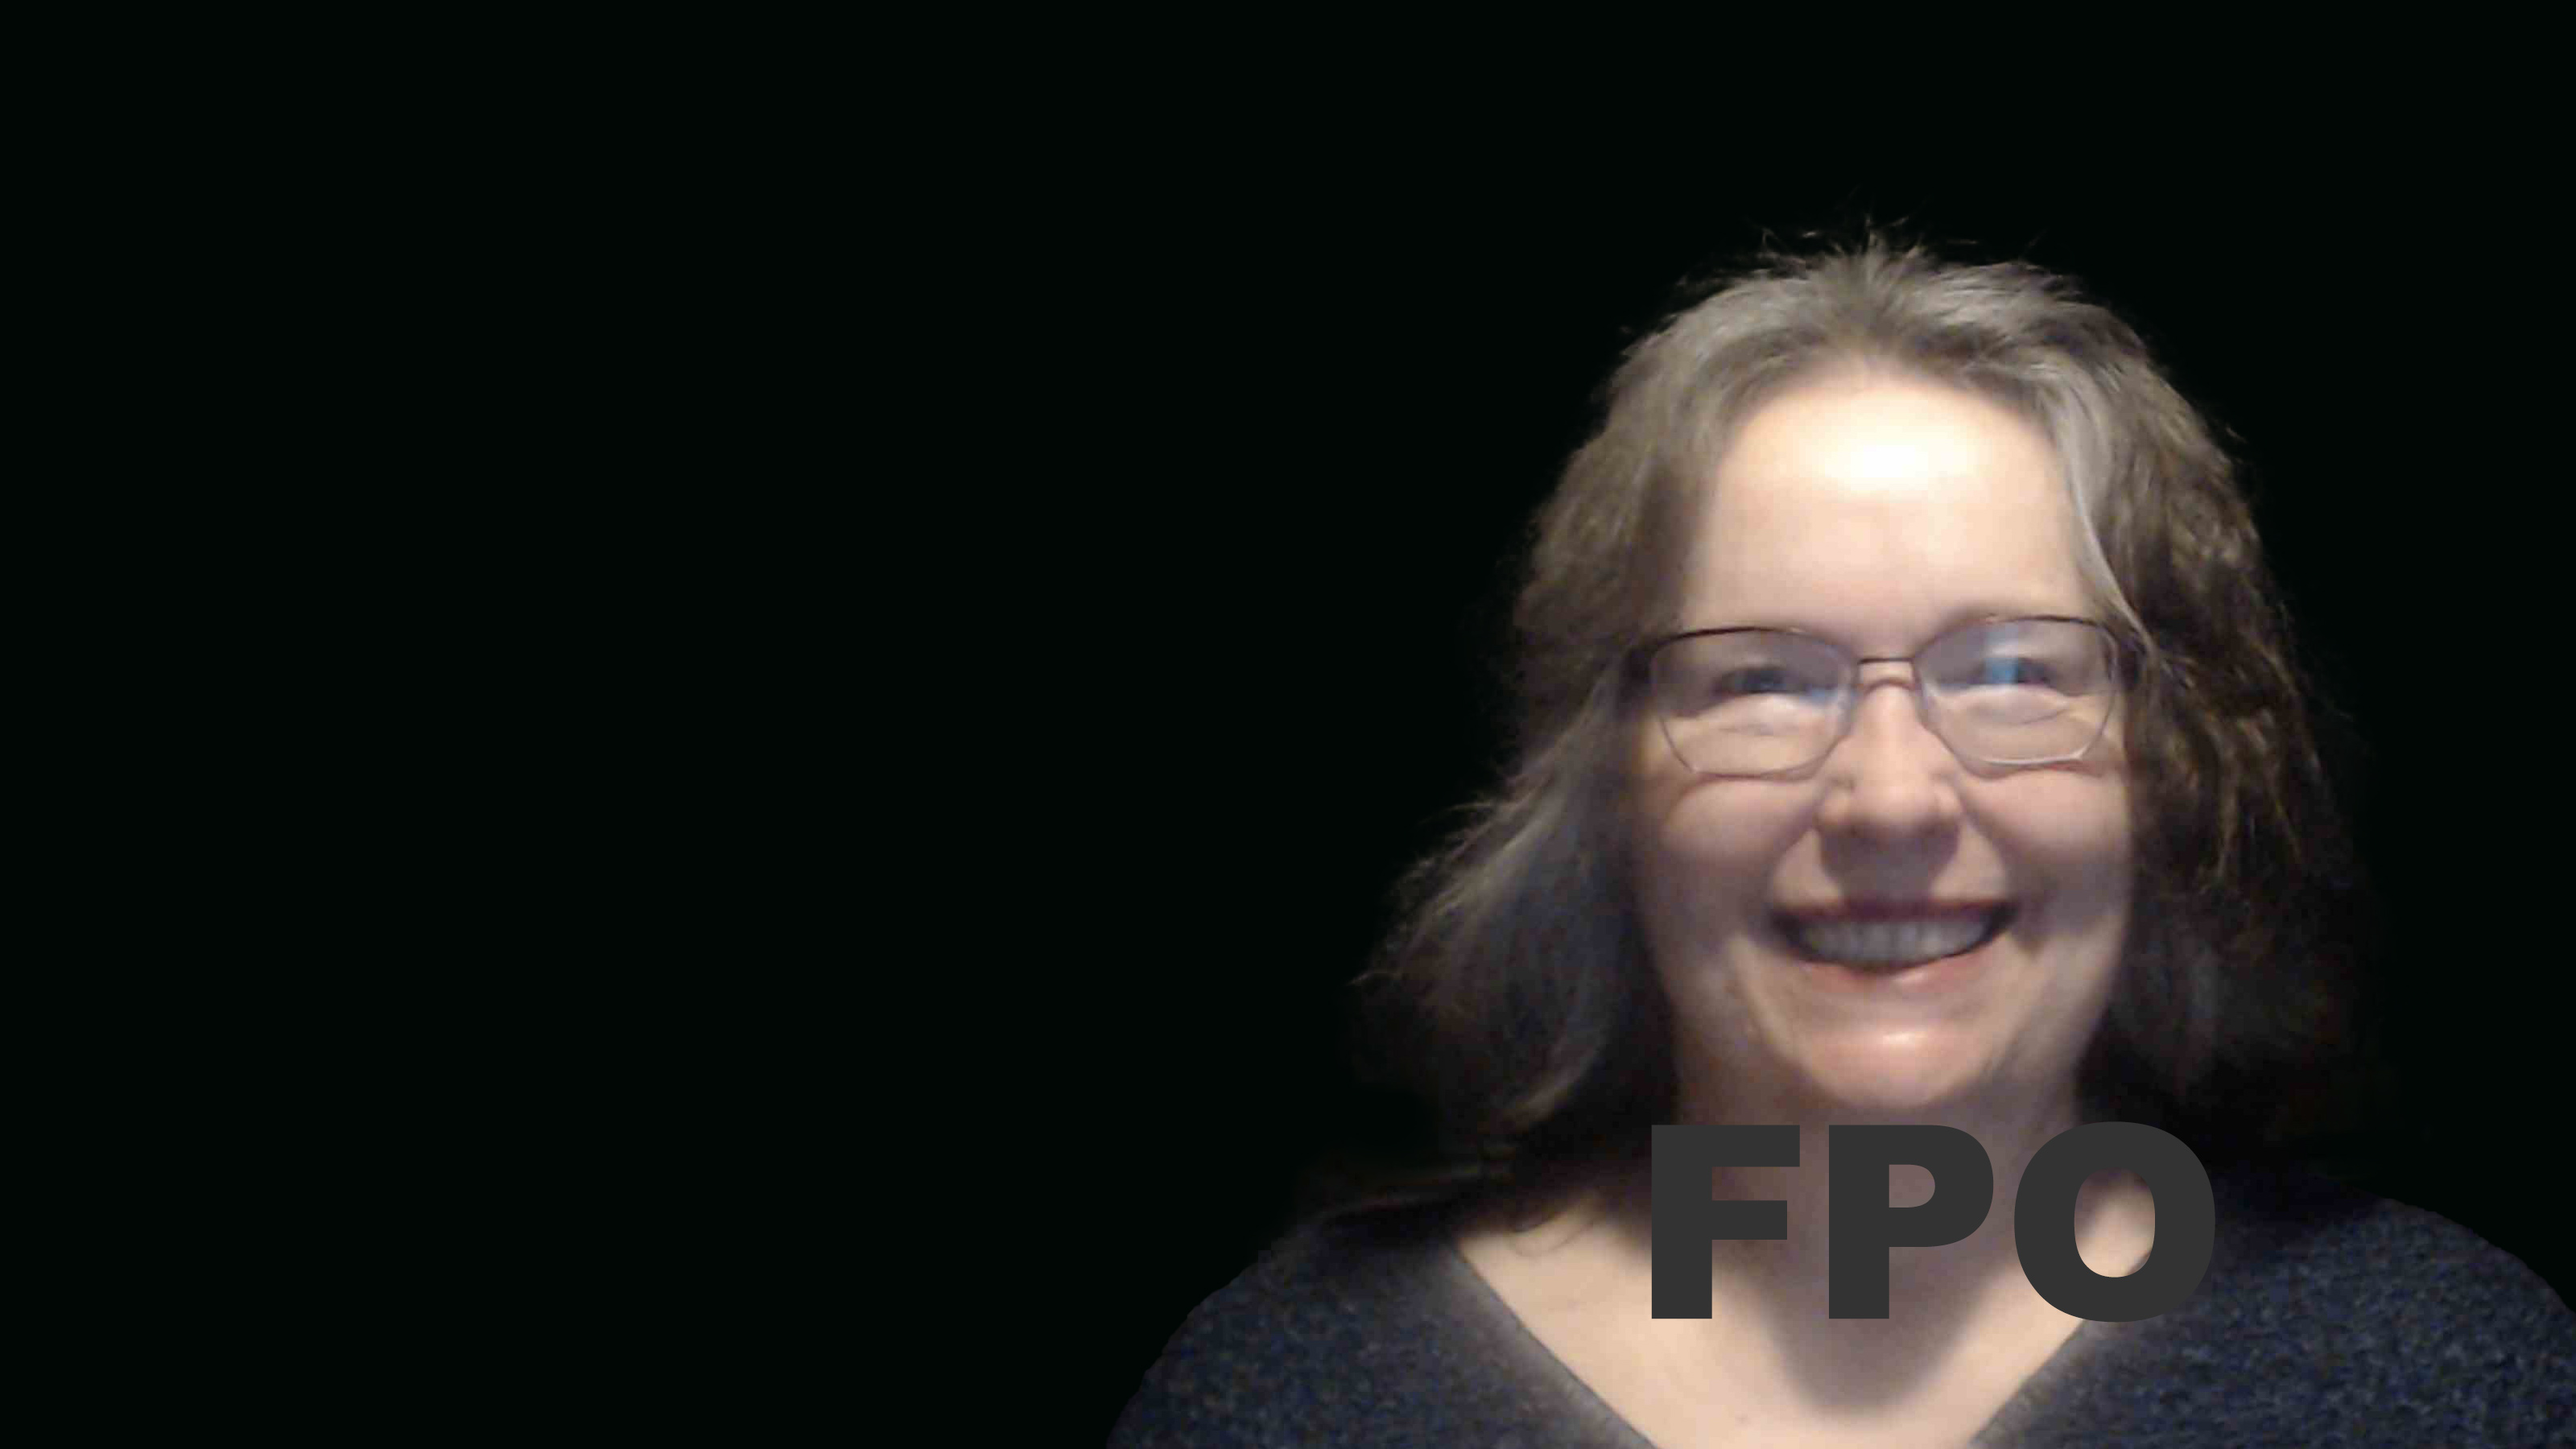
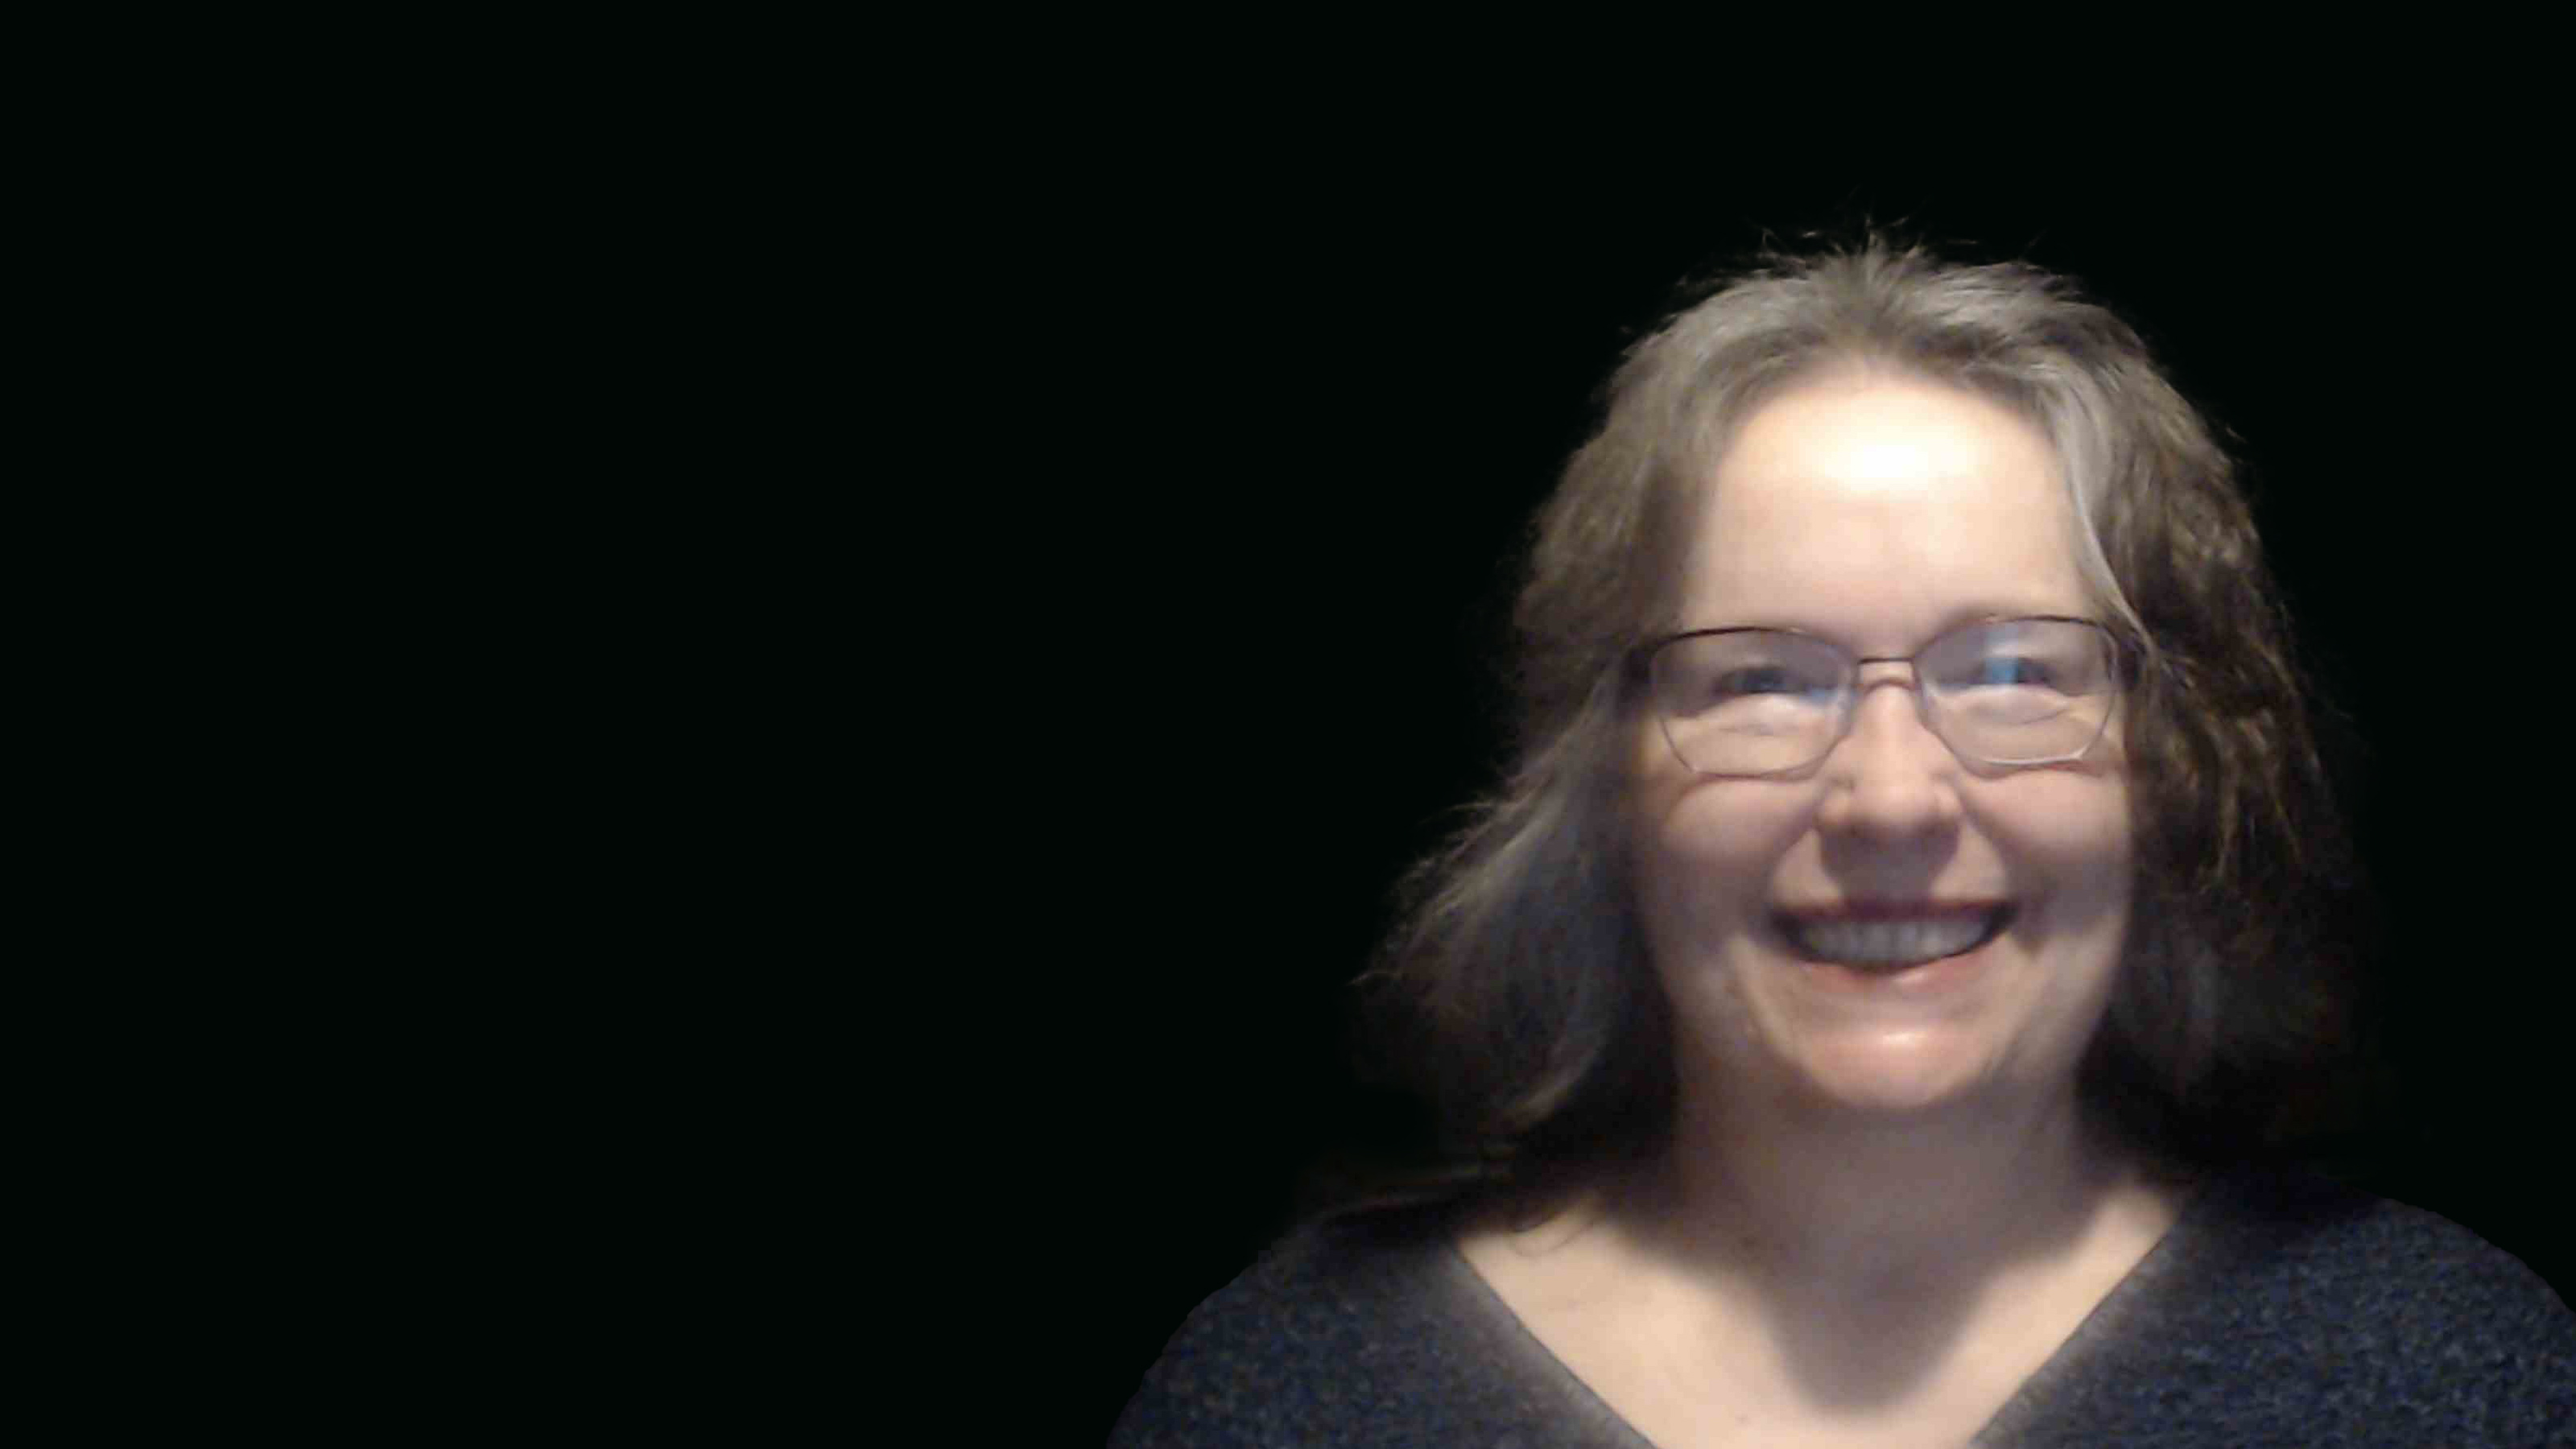
Fixed most form styling including click and active states, ripped out never-to-be-used code. Removed FPO from the portrait image. This should be v1-shippable.

Changed region(s): [[0.625, 0.7778, 0.875, 0.9333]]

diff --git a/index.html b/index.html
@@ -174,18 +174,6 @@
                 </div>
             </section>
 
-            <!-- <section class="ts-block">
-                <div class="container">
-                    <div class="text-center px-5 pt-5 position-relative">
-                        <h3 class="my-3">
-                            Let’s Work Together On Your Next Project!
-                        </h3>
-                        <a href="#contact" class="btn btn-primary mr-2 ts-push-down__50 ts-has-talk-arrow">Hire Me Now!</a>
-                        <div class="ts-background ts-opacity__20" data-bg-image="assets/img/bg-keyboard.jpg"></div>
-                    </div>
-                </div>
-            </section> -->
-
 
 
             <section class="ts-block pb-5" id="portfolio">
@@ -375,92 +363,38 @@
 
                                 </div>
                             </div>
-                            <!--end col-md-4-->
+
+
+
+
+
                             <div class="col-md-8">
                                 <h3>Send Me a Message</h3>
-
-
-
-
-                                
-
-
-
-
-
-                                    <form id="form-contact"
-                                        action="https://formspree.io/f/xoqyeqaq"
-                                        method="POST"
-                                        >
-                                        <label>
-                                            Your email:
-                                            <input type="email" name="_replyto">
-                                        </label>
-                                        <label>
-                                            Your message:
-                                            <textarea name="message"></textarea>
-                                        </label>
-
-                                        <!-- your other form fields go here -->
-
-                                        <button type="submit">Send</button>
-                                    </form>
-
-
-
-
-
-
-
-
-                                <!-- <form id="form-contact" method="post" class="clearfix ts-form ts-form-email" data-php-path="assets/php/email.php">
-                                    <div class="row">
-                                        <div class="col-md-6 col-sm-6">
-                                            <div class="form-group">
-                                                <label for="form-contact-name">Name *</label>
-                                                <input type="text" class="form-control" id="form-contact-name" name="name" placeholder="Name" required>
-                                            </div>
-                                            <!--end form-group -->
-                                        </div>
-                                        <!--end col-md-6 col-sm-6 -->
-                                        <div class="col-md-6 col-sm-6">
-                                            <div class="form-group">
-                                                <label for="form-contact-email">Email *</label>
-                                                <input type="email" class="form-control" id="form-contact-email" name="email" placeholder="Email" required>
-                                            </div>
-                                            <!--end form-group -->
-                                        </div>
-                                        <!--end col-md-6 col-sm-6 -->
-                                    </div>
-                                    <!--end row -->
+                                <form id="form-contact" action="https://formspree.io/f/xoqyeqaq" method="POST" novalidate="novalidate">
                                     <div class="form-group">
-                                        <label for="form-contact-subject">Subject *</label>
-                                        <input type="email" class="form-control" id="form-contact-subject" name="subject" placeholder="Subject" required>
+                                        <label>
+                                        Your Email:
+                                        <input type="email" name="_replyto" class="form-control">
+                                        </label>
                                     </div>
-                                    <!--end form-group -->
-                                    <div class="row">
-                                        <div class="col-md-12">
-                                            <div class="form-group">
-                                                <label for="form-contact-message">Message *</label>
-                                                <textarea class="form-control" id="form-contact-message" rows="5" name="message" placeholder="Message" required></textarea>
-                                            </div>
-                                            <!--end form-group -->
-                                        </div>
-                                        <!--end col-md-12 -->
+                                    <div class="form-group">
+                                        <label>
+                                        Your message:
+                                        <textarea name="message" class="form-control"></textarea>
+                                        </label>
                                     </div>
-                                    <!--end row -->
-                                    <div class="form-group clearfix">
-                                        <!-- <button type="submit" class="btn btn-primary float-right ts-btn-arrow" id="form-contact-submit">Send a Message</button> -->
+                                    <div class="form-group">
+                                        <button type="submit" class="btn btn-primary mb-3">Send</button>
                                     </div>
-                                    <!--end form-group -->
-                                    <div class="form-contact-status"></div>
                                 </form>
+                            </div>
+
                                 <!--end form-contact -->
                             </div>
                         </div>
                         <!--end row-->
                     </div>
-                </div>
+
                 <!--end container-->
             </section>
             <!--end #contact-->

diff --git a/assets/css/style.css b/assets/css/style.css
@@ -1206,6 +1206,16 @@ blockquote h6 {
     box-shadow: none;
 }
 
+.btn-primary:not(:disabled):not(.disabled).active, .btn-primary:not(:disabled):not(.disabled):active, .show>.btn-primary.dropdown-toggle {
+    color: #fff;
+    background-color: #021912;
+    border-color: #021912;
+}
+
+.btn-primary:not(:disabled):not(.disabled).active:focus, .btn-primary:not(:disabled):not(.disabled):active:focus, .show>.btn-primary.dropdown-toggle:focus {
+    box-shadow: 0 0 0 0.2rem rgb(6 79 57 / 50%);
+}
+
 .btn-primary {
     background-color: #f26c4f;
     border-color: #f26c4f;
